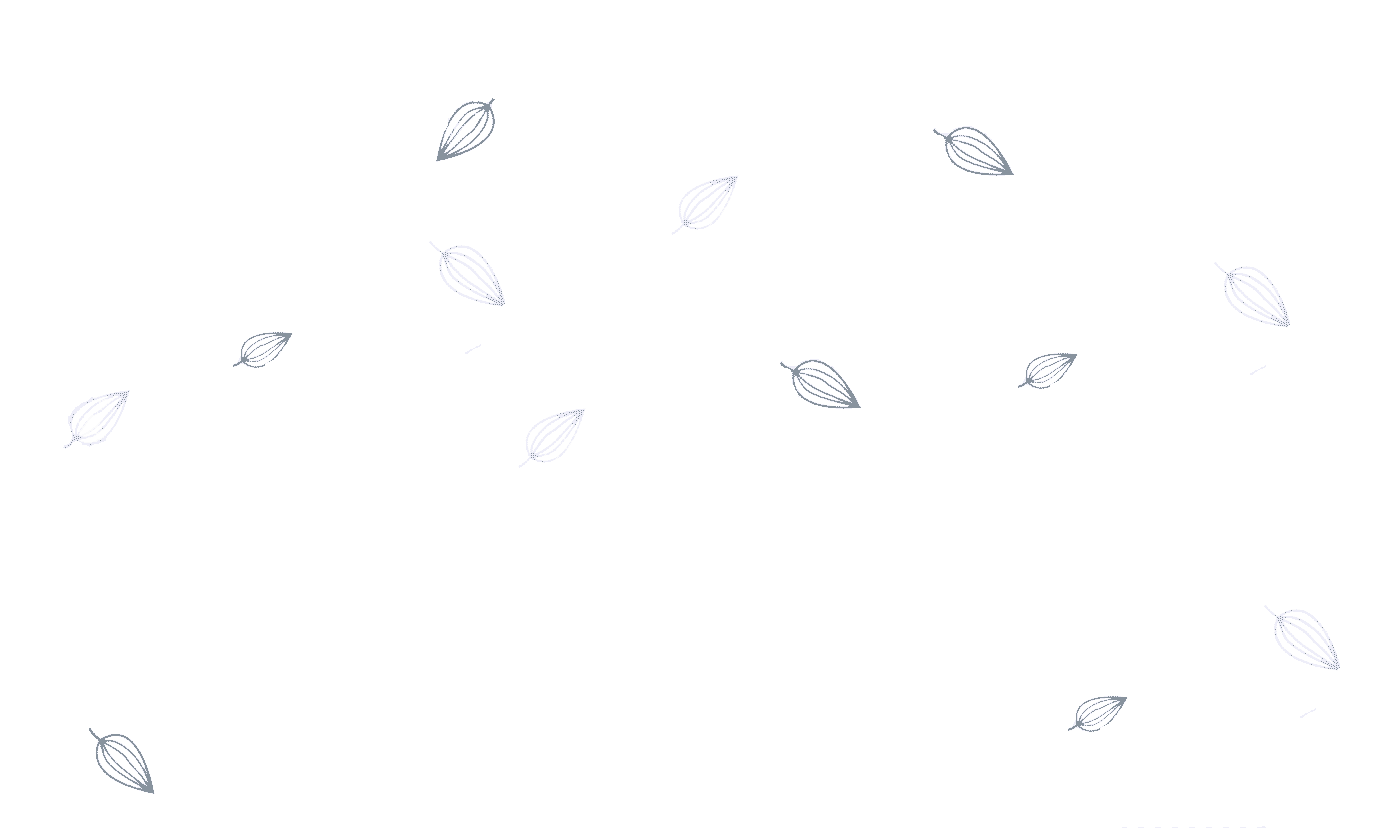
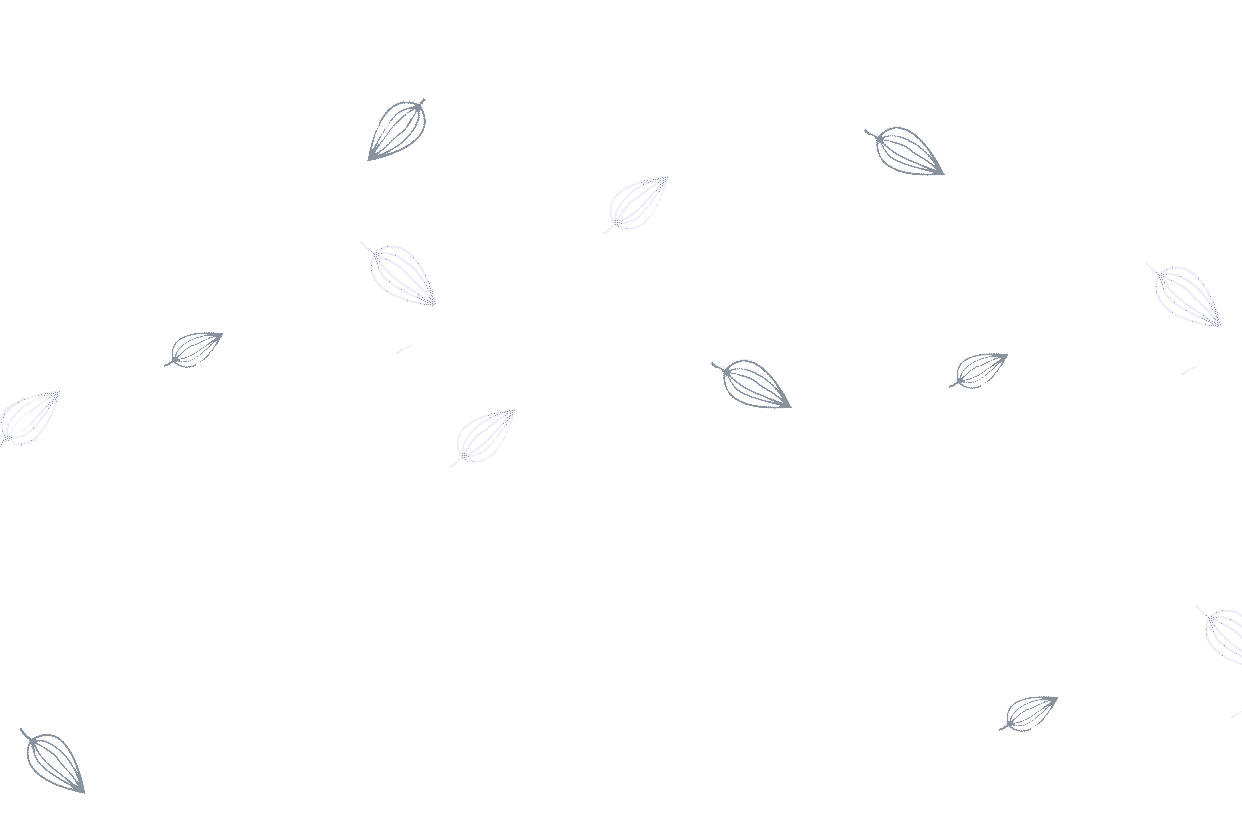
wheel adjust

diff --git a/components/gallery/gallery_Frame.js b/components/gallery/gallery_Frame.js
@@ -57,11 +57,15 @@ export default function Gallery_Frame(img) {
     const numberOfItems = items.length;
     const angleIncrement = 360 / numberOfItems;
 
+
+    let screenSizeX = document.documentElement.clientWidth
+    let diameter = screenSizeX > 400 ? "25vw" : "70vw"
+    console.log(diameter)
     items.forEach((item, index) => {
       gsap.set(item, {
         rotateY: 90,
         rotateZ: index * angleIncrement - 90,
-        transformOrigin: "100% 300px",
+        transformOrigin: `100% ${diameter} `,
       });
       item.addEventListener("mouseover", function () {
         const imageInsideItem = item.querySelector("img");
@@ -197,7 +201,7 @@ export default function Gallery_Frame(img) {
     });
   }
   return (
-    <div className="  h-screen bg-blue-100  ">
+    <div className="   ">
       <div className="container ">
         <div className="gallery"></div>
       </div>
@@ -208,7 +212,7 @@ export default function Gallery_Frame(img) {
               alt={`${images[displayImageIndex]?.alt}`}
               className="object-cover rounded-xl "
               src={`${images[displayImageIndex]?.src}`}
-              width={270}
+             
             />
           </CardBody>
           <CardHeader className="pb-0 pt-2 px-4 flex-col items-start">
@@ -227,7 +231,7 @@ export default function Gallery_Frame(img) {
             }}
           >
             {" "}
-            {"< Previous"}{" "}
+            {"< Atgal"}{" "}
           </Button>
           <Button
             className="w-1/2 "
@@ -238,7 +242,7 @@ export default function Gallery_Frame(img) {
             }}
           >
             {" "}
-            {"Next >"}{" "}
+            {"Pirmyn  >"}{" "}
           </Button>
         </div>
       </div>

diff --git a/components/gallery/image_Frame.js b/components/gallery/image_Frame.js
@@ -1,30 +1,30 @@
 import config_all from "../../config/config"
 import { Card, CardHeader, CardBody, Image } from "@nextui-org/react";
-export default function ImageFrame(props){
-     const config = config_all();
-     const img = props.img
-    
-    return(
+export default function ImageFrame(props) {
+  const config = config_all();
+  const img = props.img
+
+  return (
     <div>
-        
-   <Card className="sm:py-4">
 
-<CardBody className="overflow-visible py-2 justify-center grid">
-  <Image
-    alt={`${img?.alt}`}
-    className="object-cover rounded-xl "
-    src={`${img?.src}`}
+      <Card className="sm:py-4">
 
-
-  />
-</CardBody>
-<CardHeader className="pb-0 pt-2 px-4 flex-col items-start">
-  <h4 className="font-bold text-large" >{img?.title}</h4>
+        <CardBody className="overflow-visible py-2 justify-center grid">
+          <Image
+            alt={`${img?.alt}`}
+            className="object-cover rounded-xl "
+            src={`${img?.src}`}
 
 
-</CardHeader>
+          />
+        </CardBody>
+        <CardHeader className="pb-0 pt-2 px-4 flex-col items-start">
+          <h4 className="font-bold text-large" >{img?.title}</h4>
 
 
-</Card>
+        </CardHeader>
+
+
+      </Card>
     </div>)
 }

diff --git a/styles/globals.css b/styles/globals.css
@@ -102,7 +102,7 @@ body {
 
 .gallery{
   position: fixed;
-  top: 22.5%;
+  top: 12.5%;
   left: 50%;
   transform-style: preserve-3d;
   transform: translateX(-55%) rotateX(55deg);
@@ -128,10 +128,11 @@ img{
 
 .preview-img{
   position: fixed;
-  top: 50%;
+  top:50%;
   left: 50%;
   transform: translate(-50%, -50%);
-  width: 300px;
-  height: 200px;
+  width: 40vw;
+  height: auto;
   z-index: 0;
+  min-width: 300px;
 }

diff --git a/components/navbar.js b/components/navbar.js
@@ -30,7 +30,7 @@ export const Navbar = () => {
 
   const config = config_all();
 
-  console.log(config.fonts.subTitle);
+
 
   return (
     <>
